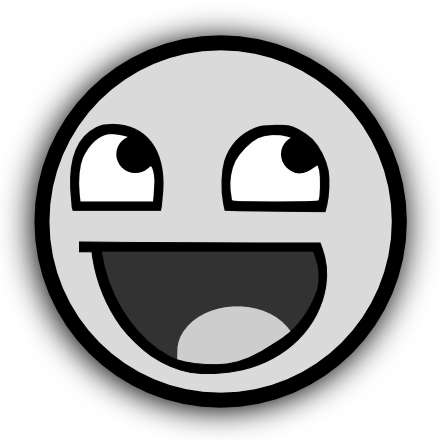
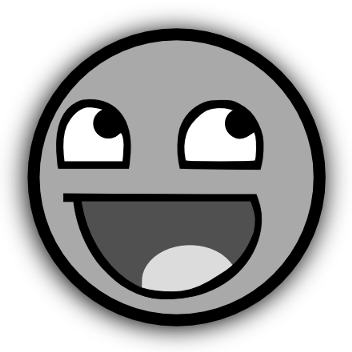
:O, ask-undrgz with easter egg!

diff --git a/projects/ask-undrgz/src/ask-undrgz/ask_undrgz/templates/base.html b/projects/ask-undrgz/src/ask-undrgz/ask_undrgz/templates/base.html
@@ -22,21 +22,23 @@
 	<title>{% block title %}{% endblock %}</title>
 </head>
 <body>
-	<div id="main">
-		<div id="header">
-			{% block top10 %}
-			<div id="id_top10" class="top10">
-				<h2>{% trans 'Recent stupid questions' %}</h2>
-				<ul class="actionlist">
-					<li><a href="/?ask={% trans 'WTF?' %}" onclick='javascript: return set_question_and_submit_form("WTF?");'>{% trans 'WTF?' %}</a></li>
-					<li><a href="/?ask={% trans "Where's my phone?" %}" onclick='javascript: return set_question_and_submit_form("Where's my phone?");'>{% trans "Where's my phone?" %}</a></li>
-					<li><a href="/?ask={% trans "How many pounds I'll lose weight today?" %}" onclick='javascript: return set_question_and_submit_form("How many pounds I'll lose weight today?");'>{% trans "How many pounds I'll lose weight today?" %}</a></li>
-				</ul>
+	<div id="all">
+		<div id="main">
+			<div id="header">
+				{% block recent_stupid_questions %}
+				<div id="id_recent_stupid_questions" class="recent_stupid_questions">
+					<h2>{% trans 'Recent stupid questions' %}</h2>
+					<ul class="actionlist">
+						<li><a href="/?ask={% trans 'WTF?' %}" onclick='javascript: return set_question_and_submit_form("WTF?");'>{% trans 'WTF?' %}</a></li>
+						<li><a href="/?ask={% trans "Where's my phone?" %}" onclick='javascript: return set_question_and_submit_form("Where's my phone?");'>{% trans "Where's my phone?" %}</a></li>
+						<li><a href="/?ask={% trans "How many pounds I'll lose weight today?" %}" onclick='javascript: return set_question_and_submit_form("How many pounds I'll lose weight today?");'>{% trans "How many pounds I'll lose weight today?" %}</a></li>
+					</ul>
+				</div>
+				{% endblock %}
 			</div>
-			{% endblock %}
+			<div id="contents">{% block contents %}{% endblock %}</div>
+			<div id="footer">{% trans 'Written by' %} <a href="mailto: nycholas@gmail.com">Nycholas de Oliveira e Olivera</a>. {% trans 'Uses data from' %} <a href="mailto: guilherme@ilostmyself.org">underguiz</a>.<div>
 		</div>
-		<div id="contents">{% block contents %}{% endblock %}</div>
-		<div id="footer">{% trans 'Written by' %} <a href="mailto: nycholas@gmail.com">Nycholas de Oliveira e Olivera</a>. {% trans 'Uses data from' %} <a href="mailto: guilherme@ilostmyself.org">underguiz</a>.<div>
 	</div>
 	<script type="text/javascript">
 	function send_ask() {
@@ -51,14 +53,23 @@
 		$.post('/_is_online/', {from: 'underguiz@ilostmyself.org'}, 
 		function(data, status, xhr) {
 			//window.alert('is_online:'+data+':'+status+':'+xhr);
-			if (data) {
-				$('#id_recent_stupid_questions').show();
-				$('#id_logo').html('<a href="/"><img src="/static/img/awesomeaface.png" width="352" height="352" alt="underguiz - online" /></a>');
+			var easter_egg = $('#id_easter_egg').val();
+			if (data.is_online) {
+				$('#id_div_recent_stupid_questions').show();
+				if (data.easter_egg || easter_egg == 1) {
+					$('#id_logo').html('<a href="/"><img src="/static/img/underguiz.png" width="352" height="352" alt="underguiz - online" /></a>');
+				} else {
+					$('#id_logo').html('<a href="/"><img src="/static/img/awesomeaface.png" width="352" height="352" alt="underguiz - online" /></a>');
+				}
 				$('#id_ask').attr('disabled', '');
 				$('#id_send_question').attr('disabled', '');
 			} else {
-				$('#id_recent_stupid_questions').hide();
-				$('#id_logo').html('<img src="/static/img/awesomeaface-nocolor.png" width="352" height="352" alt="underguiz - offline" />');
+				$('#id_div_recent_stupid_questions').hide();
+				if (data.easter_egg || easter_egg == 1) {
+					$('#id_logo').html('<img src="/static/img/underguiz-nocolor.png" width="352" height="352" alt="underguiz - offline" />');
+				} else {
+					$('#id_logo').html('<img src="/static/img/awesomeaface-nocolor.png" width="352" height="352" alt="underguiz - offline" />');
+				}
 				$('#id_ask').attr('disabled', 'disabled');
 				$('#id_send_question').attr('disabled', 'disabled');
 			}
@@ -76,14 +87,14 @@
 		}, 'json');
 	}
 	
-	function update_top10() {
-		$.post('/_update_top10/', function(data, status, xhr) {
-			//window.alert('update_top10:'+data+':'+status+':'+xhr);
+	function update_recent_stupid_questions() {
+		$.post('/_recent_stupid_questions/', function(data, status, xhr) {
+			//window.alert('update_recent_stupid_questions:'+data+':'+status+':'+xhr);
 			var html = '';
 			$.each(data, function(i, question) {
 				html += '<li><a href="'+ question.get_absolute_url +'" onclick=\'javascript: return set_question_and_submit_form("'+ question.ask +'");\'>'+ question.ask +'</a></li>';
 			});
-			$('#id_top10').html(html);
+			$('#id_recent_stupid_questions').html(html);
 		}, 'json');
 	}
 	
@@ -127,7 +138,7 @@
 		is_online();
 		var interval_is_online = window.setInterval(function() {
 			is_online();
-			update_top10();
+			update_recent_stupid_questions();
 		}, 5000);
 		
 		update_answer();

diff --git a/projects/ask-undrgz/src/ask-undrgz/static/css/main.css b/projects/ask-undrgz/src/ask-undrgz/static/css/main.css
@@ -1,6 +1,6 @@
 @charset "UTF-8";
 
-html {
+html, body {
   font-family: Arial Unicode MS, Arial, sans-serif;
   font-size: small;
   text-decoration: none;
@@ -47,19 +47,25 @@ input[type=text] {
   background: url("../img/hborder.png") repeat-x 0px -27px;
   border: 1px outset #ccc;
 }
+
 .x-Button:active {
   border: 1px inset #ccc;
 }
+
 .x-Button:hover {
   border-color: #9cf #69e #69e #7af;
 }
+
 .x-Button[disabled] {
   cursor: default;
   color: #888;
 }
+
 .x-Button[disabled]:hover {
   border: 1px outset #ccc;
 }
+
+#all {}
 
 #main {
   width: 98%;
@@ -73,36 +79,36 @@ input[type=text] {
 
 #header {}
 
-.top10 {
+.recent_stupid_questions {
 	position: fixed;
-	top: 0;
-	right: 0;
-	text-align: right;
-	width: 20%;
-	background-color: white;
-	border-left: 2px solid #ccc;
-	border-bottom: 2px solid #ccc;
-	font-size: small;
+    top: 0;
+    right: 0;
+    text-align: right;
+    width: 20%;
+    background-color: white;
+    border-left: 2px solid #ccc;
+    border-bottom: 2px solid #ccc;
+    font-size: small;
 }
 
-.top10 p, .top10 ul, .top10 h3, .top10 h4, .top10 dl, .top10 pre {
+.recent_stupid_questions p, .recent_stupid_questions ul, .recent_stupid_questions h3, .recent_stupid_questions h4, .recent_stupid_questions dl, .recent_stupid_questions pre {
     padding-left: 10px;
     padding-right: 10px;
 }
 
-.top10 blockquote {
+.recent_stupid_questions blockquote {
     margin-left: 12px;
 }
 
-.top10 ul, .top10 ol {
+.recent_stupid_questions ul, .recent_stupid_questions ol {
     margin-left: 1.5em;
 }
 
-.top10 h3 {
+.recent_stupid_questions h3 {
     margin-top: .6em;
 }
 
-.top10 h2, .top10 caption, .inline-group h2 {
+.recent_stupid_questions h2, .recent_stupid_questions caption, .inline-group h2 {
     margin: 0;
     padding: 2px 5px 3px 5px;
     font-size: 11px;
@@ -112,12 +118,12 @@ input[type=text] {
     color: white;
 }
 
-.top10 h2 {
+.recent_stupid_questions h2 {
 	background: #eee url(../img/nav-bg.gif) bottom left repeat-x;
     color: #666;
 }
 
-.top10 ul.actionlist {
+.recent_stupid_questions ul.actionlist {
     margin-left: 0;
     text-align: left;
 }
@@ -126,8 +132,7 @@ ul.actionlist li {
     list-style-type: none;
 }
 
-
-.top10 table {
+.recent_stupid_questions table {
     border-collapse: collapse;
 }
 
@@ -139,14 +144,15 @@ ul.actionlist li {
 	width: 352px;
 	height: 352px;
 	display: block;
-	margin: 5px auto;
+	margin: 0px auto;
+	margin-bottom: 5px;
 }
 
 .form {}
 
 #result {
 	width: 100%;
-	height: 100px;
+	height: 80px;
 	margin: 15px auto;
 	padding: 5px;
 	display: block;

diff --git a/projects/ask-undrgz/src/ask-undrgz/ask_undrgz/templates/index.html b/projects/ask-undrgz/src/ask-undrgz/ask_undrgz/templates/index.html
@@ -3,12 +3,12 @@
 
 {% block title %}{% trans 'ask-undrgz :: system of questions uses data from underguiz' %}{% endblock %}
 
-{% block top10 %}
-{% if top10 %}
-<div id="id_recent_stupid_questions" class="top10">
+{% block recent_stupid_questions %}
+{% if recent_stupid_questions %}
+<div id="id_div_recent_stupid_questions" class="recent_stupid_questions">
 	<h2>{% trans 'Recent stupid questions' %}</h2>
-	<ul id="id_top10" class="actionlist">
-		{% for question in top10 %}
+	<ul id="id_recent_stupid_questions" class="actionlist">
+		{% for question in recent_stupid_questions %}
 			<li><a href="{{ question.get_absolute_url }}" onclick='javascript: return set_question_and_submit_form("{{ question.ask }}");'>{{ question.ask }}</a></li>
 		{% endfor %}
 	</ul>
@@ -22,6 +22,7 @@
 		<div class="form">
 			<form action="/" method="POST" id="id_question_form" name="question_form">
 			<input type="hidden" name="key" id="id_key" value="{% if ask_slug %}{{ ask_slug }}{% endif %}" />
+			<input type="hidden" name="easter_egg" id="id_easter_egg" value="{% block easter_egg %}0{% endblock %}" />
 			<label for="id_ask">{% trans "Ask a question to underguiz (WTF?, Where's my phone?, How many pounds am I going to lose today?):" %}</label><br />
 			{% if question_form.subject.errors %}
 				<div style="color: red;">{{ question_form.ask.errors }}</div>

diff --git a/projects/ask-undrgz/src/ask-undrgz/ask_undrgz/question/views.py b/projects/ask-undrgz/src/ask-undrgz/ask_undrgz/question/views.py
@@ -41,7 +41,7 @@ from django.core import serializers
 from ask_undrgz.question.forms import QuestionForm
 from ask_undrgz.question.models import Question
 
-def _get_question_top10():
+def _recent_stupid_questions():
     return Question.all().filter('answered != ', None).order('-answered').fetch(30)
 
 def _send_message(user_address, message):
@@ -73,7 +73,7 @@ def index(request):
         question_form = QuestionForm()
     return render_to_response('index.html', {
         'question_form': question_form,
-        'top10': _get_question_top10(),
+        'recent_stupid_questions': _recent_stupid_questions(),
     })
         
 def answer(request, ask):
@@ -103,14 +103,14 @@ def answer(request, ask):
     question_form = QuestionForm(initial=initial)
     return render_to_response('index.html', {
         'question_form': question_form,
-        'top10': _get_question_top10(),
+        'recent_stupid_questions': _recent_stupid_questions(),
         'ask_slug': question.ask_slug,
         'answer': question.answer,
     })
     
-def top10(request):
-    logging.debug('In question.views::top10()')
-    question_top10 = _get_question_top10()
+def recent_stupid_questions(request):
+    logging.debug('In question.views::recent_stupid_questions()')
+    question_top10 = _recent_stupid_questions()
     if request.is_ajax():
         return HttpResponse(simplejson.dumps([q.to_dict() for q in question_top10]), 
                             mimetype='application/json')
@@ -119,16 +119,22 @@ def top10(request):
 def is_online(request):
     logging.debug('In question.views::is_online()')
     user_address = request.REQUEST.get('from')
+    dt = datetime.datetime.now()
+    easter_egg = True if dt.hour == 6 and dt.minute == 6 and d1.second >= 6 else False
     chat_message_sent = False
     if not user_address:
         if request.is_ajax():
-            return HttpResponse(simplejson.dumps(chat_message_sent), 
-                                mimetype='application/json')
+            return HttpResponse(simplejson.dumps({
+                'is_online': chat_message_sent,
+                'easter_egg': easter_egg
+            }), mimetype='application/json')
         return HttpResponse('from is required', status=405)
     chat_message_sent = xmpp.get_presence(user_address)
     if request.is_ajax():
-        return HttpResponse(simplejson.dumps(chat_message_sent), 
-                            mimetype='application/json')
+        return HttpResponse(simplejson.dumps({
+                'is_online': chat_message_sent,
+                'easter_egg': easter_egg
+            }), mimetype='application/json')
     return HttpResponse(chat_message_sent)
     
 def send_message(request):
@@ -170,7 +176,8 @@ def incoming_chat(request):
             answer = ''.join(body[1:])
             question = Question.get_by_id(id_question)
             if question.answer:
-                question.answer = '%s; %s' % (question.answer, answer)
+                space = '<br />' + '&nbsp;'*16
+                question.answer = '%s; %s%s' % (question.answer, space, answer)
             else:
                 question.answer = answer 
             question.answered = datetime.datetime.now()
@@ -182,3 +189,10 @@ def incoming_chat(request):
         logging.debug('XMPP status %r', sts)
     return HttpResponse(st)
 
+def show_me_underguiz(request):
+    logging.debug('In question.views::show_me_underguiz()')
+    question_form = QuestionForm()
+    return render_to_response('easter_egg.html', {
+        'question_form': question_form,
+        'recent_stupid_questions': _recent_stupid_questions(),
+    })

diff --git a/projects/ask-undrgz/src/ask-undrgz/ask_undrgz/urls.py b/projects/ask-undrgz/src/ask-undrgz/ask_undrgz/urls.py
@@ -37,10 +37,11 @@ urlpatterns = patterns('',
     # Example:
     # (r'^ask_undrgz/', include('ask_undrgz.foo.urls')),
     (r'^$', 'ask_undrgz.question.views.index'),
-    (r'^_update_top10/$', 'ask_undrgz.question.views.top10'),
+    (r'^_recent_stupid_questions/$', 'ask_undrgz.question.views.recent_stupid_questions'),
     (r'^_is_online/$', 'ask_undrgz.question.views.is_online'),
     (r'^_send_message/$', 'ask_undrgz.question.views.send_message'),
     (r'^_ah/xmpp/message/chat/', 'ask_undrgz.question.views.incoming_chat'),
+    (r'^_show_me_underguiz/$', 'ask_undrgz.question.views.show_me_underguiz'),
     (r'^(?P<ask>[\w_-]+)/$', 'ask_undrgz.question.views.answer'),
 
     # Uncomment the admin/doc line below and add 'django.contrib.admindocs' 
